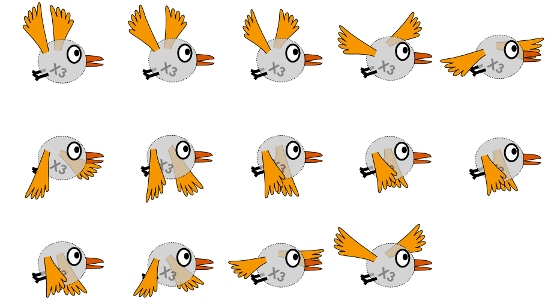
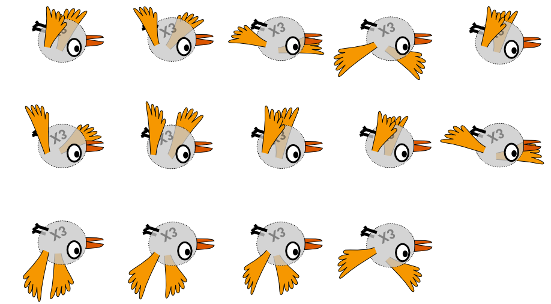
save

diff --git a/website/js/controller/bird.js b/website/js/controller/bird.js
@@ -102,8 +102,8 @@ app.controller('birdCtrl',function($scope,$state,$interval){
             [0,1],[1,1],[2,1],[3,1],[4,1],
             [0,2],[1,2],[2,2],[3,2]
           ],
-          width:912/5,
-          height:506/3
+          width:551/5,
+          height:304/3
         },
         dead: {
           img:dead_img,
@@ -205,10 +205,10 @@ app.controller('birdCtrl',function($scope,$state,$interval){
     frame++
     ctx.fillStyle = canvas_colour
     ctx.fillRect(0,0,c.width,c.height)
-    drawPlayer();
     drawFloor();
     drawBlocks();
     drawClouds();
+    drawPlayer();
     drawText();
     if (!$scope.paused) {
       window.requestAnimationFrame(draw)
